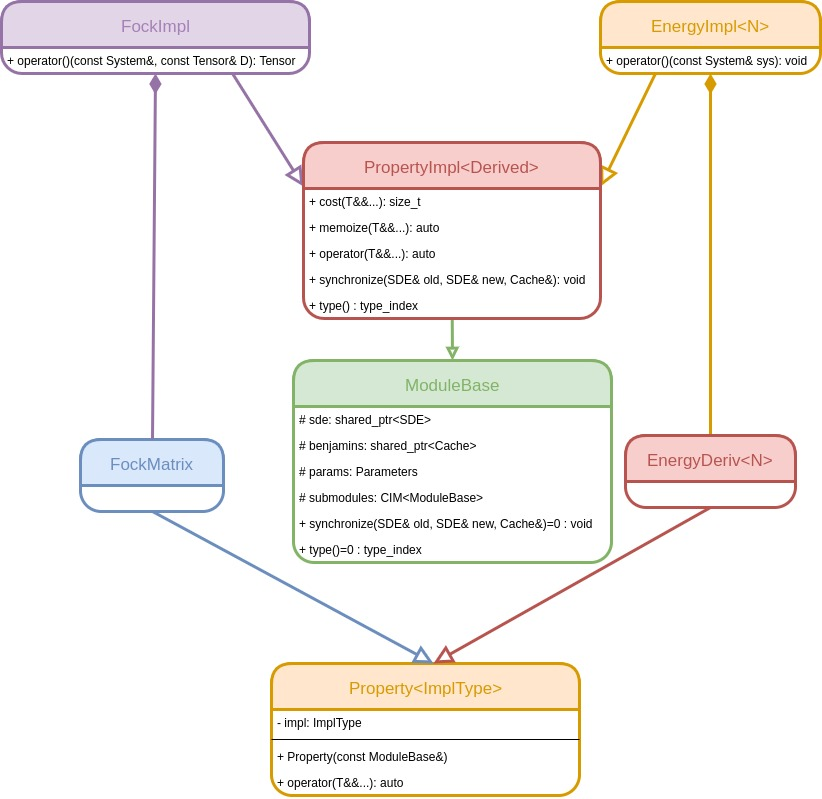
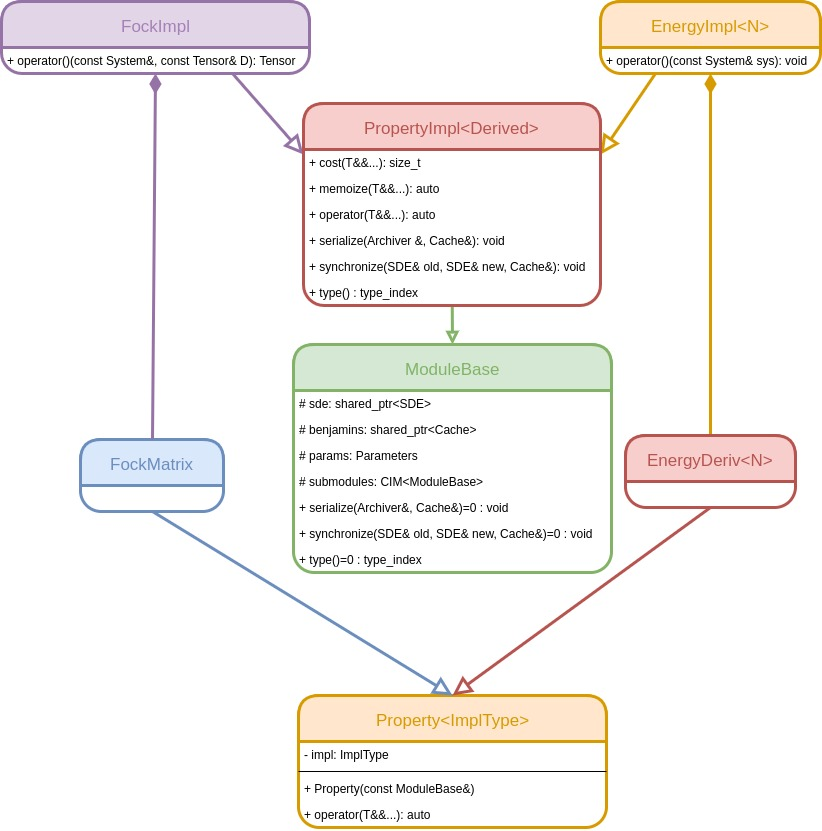
Slight tweak to Module API, adds ModuleManager API

Changed region(s): [[0.0, 0.03, 1.0, 0.7509], [0.3041, 0.7509, 0.7603, 1.0]]

diff --git a/dox/ModuleManagerAPI.md b/dox/ModuleManagerAPI.md
@@ -7,9 +7,10 @@ formulation of the ModuleManager class.
 
 @section mm_api_use_cases Use Cases
 
-The ModuleManager class is conceived as being the automated overlord of the SDE.
-The mechanisms available to it are the same mechanisms available to module 
-developers looking to maximize performance.  To that end, the ModuleManager 
+The ModuleManager class is charged with knowing the available modules, handling 
+queries related to the module call hierarchy, and managing the instances of
+modules.  Managing the state of modules is the purpose of the Cache class and
+its API considerations can be found [here](@ref cache_api).  The ModuleManager 
 class's use cases and users are depicted in the following use case diagram.
 
 ![](uml/ModuleManager_use_case.jpg)
@@ -73,8 +74,17 @@ In most computer programs the ability to save and load program state is a given.
 Historically in computational chemistry this has not been the case.  One of the
 use cases of the SDE is to rectify this.  To that end we note that to the extent
 that the program is simply the module call graph, the ModuleManager is in a 
-position to easily save/load the program's state.  We want this process to be as
-automated as possible.  
+position to easily save/load the program's state.  That said the actual we will
+delegate the save/load responsibility to a sub-object within the ModuleManager,
+namely the Cache.  Nonetheless, it is essential that the ModuleManager be 
+designed with the saving/loading in mind.
+
+Ideally users of the ModuleManager class will not need to interact with the 
+cache directly.  The primary motivation behind this decision is to ensure that 
+module developers need only focus on the internals of their module, and not 
+how the results are used (particularly their lifetimes).  Instead the 
+responsibility for managing the lifetime of the results falls to the caller of
+the module and the Cache (*via* the ModuleManager class).
 
 There is at least one other consideration related to saving/loading state and
 that is managing distributed states.  Generally speaking, given a result 
@@ -93,7 +103,8 @@ tell the SDE about itself.  Generally speaking this can be thought of as a means
 of introspection.  Arguably the most important means of introspection is to 
 ascertain the resource cost of calling a module with a particular set of 
 arguments.  Examples of resources of interest are: time, processes, threads, and
-memory.
+memory.  The location of the actual call for the cost is dependent on the 
+module API chosen. 
 
 Given the overarching goal of parallelization, it will fall to the ModuleManager
 to perform coarse grained parallelism over the modules.  Even when 
@@ -125,7 +136,7 @@ needing to call a submodule does so at well defined points.  To each of
 these points the module developer associates a name.  Then the `submodules` 
 member contains a map of keys for submodules such that 
 `submodules["submodule"].second` is the key to provide to the ModuleManager's
-`get_submodule()` routine in order to get the module at point `"submodule"`.
+`get_module()` routine in order to get the module at point `"submodule"`.
 `submodules["submodule"].first` is the `type_index` of the class that should
 implement the algorithm and is used internally for error-checking.
 
@@ -174,14 +185,14 @@ public:
 };            
 ```  
 
-Aside form the ModuleLoader class the rest of the API is largely 
+We note that the `get_module` function takes an SDE instance.  This is the 
+instance that the module will run on.  By comparing to the stored SDE instance
+we can determine if we need to synchronize the cache.  Aside from the 
+ModuleLoader class and the `get_module` function the rest of the API is largely 
 straightforward.  Modules are registered using the `add_module` member function,
-duplicated using the `copy_module` member function, and retrieved with the
-`get_module` member function.  Calling `save_cache` will cause the Cache to be
-saved, whereas calling `load_cache` will allow one to read in another Cache.
-The remaining class, `Synchronizer`, is used for synchronizing the results
-stored in a Cache when the set of processes changes.  More specifically it can
-be specialized for a given type if need be. 
+duplicated using the `copy_module` member function, and the state can be 
+saved by calling `save_cache`.
+
 
 | Pros                        |                                        Cons|
 | --------------------------- | ------------------------------------------ |

diff --git a/dox/ParametersAPI.md b/dox/ParametersAPI.md
@@ -4,18 +4,10 @@
 
 The current page describes the Parameters class and the classes associated 
 directly with its implementation.  The Parameters class is envisioned as being
-used to provide module specific input assuming a module API like:
-
-```.cpp
-return_value MyModule::operator()(explicit_type1 explicit_arg1, 
-                                  explicit_type2 explicit_arg2,
-                                  ...,
-                                  const Parameters& params);
-```  
-
-For the purposes of this page, the distinction between which arguments are 
-explicit to a module call and which are wrapped up in the Parameters instance is
-beyond the scope of this page. 
+used to provide algorithmic parameters.  Many of the 
+[purposed Module APIs](@ref module_api) also take explicit parameters in 
+addition to the parameters hidden within the Parameters class.  For the purposes
+of this page, we do not concern ourselves with the distinction.
 
 @section parameters_api_uses Use Cases
 
@@ -116,10 +108,11 @@ designed around its intended usage.  The first purposed API embraces that.
 ![](uml/ParametersAPI_pythonic.jpg)
 
 In this API the name of the parameter is stored as a string and the value is 
-type-erased.  Clearly such a strategy is suitable for arbitrary options and is
-extendable without needing to rewrite the SDE.  The actual option is stored in a
-little wrapper class that associates with the value the metadata and validity
-checks.  In practice standard usage of this class would be something like:
+type-erased using the SDEAny class.  Clearly such a strategy is suitable for 
+arbitrary options and is extendable without needing to rewrite the SDE.  The 
+actual option is stored in a little wrapper class that associates with the 
+value the metadata and validity checks.  In practice standard usage of this 
+class would be something like:
 
 ```.cpp
 //Declare an instance

diff --git a/dox/SDEAnyAPI.md b/dox/SDEAnyAPI.md
@@ -1,0 +1,45 @@
+@page sdeany_api SDEAny API
+
+[TOC]
+
+The current page focuses on the design decisions behind the SDEAny class.  
+The design of the SDEAny class is basically ripped right from `std::any` with
+some additional bells and whistles.
+
+@section sdeany_api_use Use Cases
+
+The following UML use case diagram describes the intended use cases for the 
+SDEAny class.
+
+![](uml/SDEAnyAPI_use_case.jpg)
+
+The primary use case for the SDEAny class is to provide type-erasure 
+capabilities to the Cache and Parameters classes.  In both cases our classes
+need to be capable of storing objects of arbitrary type.  The objects wrapped
+in the SDEAny 
+
+@section sdeany_api_api Purposed SDEAny API
+
+Type-erasure is pretty-common design aspect in C++ programs.  The prevailing
+way of doing type-erasure is with a class like `std::any`.  There's two 
+problems with `std::any`.  One, it's C++17.  Two, it doesn't expose any generic
+manipulations (in our case we need to serialize, synchronize, *etc.*).  
+Unfortunately, adding such functionality requires modifications to the base 
+holder class (specifically one must add virtual functions that are overriden by 
+derived holder class).  For these reasons we are rolling our
+own "any" class.  The following UML diagram details the API:
+
+![](uml/SDEAnyAPI_api.jpg)
+
+The API itself is basically just `std::any` with the necessary additional 
+methods.  Typical usage of the class is something like:
+
+```.cpp
+SDEAny wrapped_double(3.14);
+
+// Get our double back
+auto our_double = SDEAny_cast<double>(wrapped_double);
+
+// Request the object be serialized using the archiver MyArchiver 
+wrapped_double.serialize(MyArchiver);
+```

diff --git a/dox/CacheAPI.md b/dox/CacheAPI.md
@@ -1,0 +1,32 @@
+@page cache_api Cache API
+
+[TOC]
+
+The current page focuses on the the design decisions behind the Cache object.
+For the most part the design of the Cache object was driven by the 
+[Module API](@ref module_api) and the [Module Manager API](@ref mm_api).
+
+@section cache_api_use_cases
+
+The following use case diagram shows the intended uses of the Cache as well as
+who those use cases are primarily targeted at.
+
+![](uml/CacheAPI_use_case.jpg)
+
+For the most part the use cases for the Cache are straightforward.  We want to
+be able to checkpoint the program's state and reload it if something goes wrong.
+Additionally, we want a means to archive (long-term storage) the results of a 
+computation, specifically in a manner that does not sacrifice context or 
+precision.  Given the focus on parallel computing, it will be necessary over 
+the course of a calculation to synchronize results stored on a superset or 
+subset of processes.  The Cache must be able to do this in a somewhat automatic
+fashion.  Finally, since the Cache will be the largest consumer of memory it is
+essential that the Cache have some routines for reducing its memory footprint.
+
+@section cache_api_options Purposed Cache API
+
+Ultimately the Cache is just a large hash map holding the state of modules
+that are accessible from the current ModuleManager instance.  Synchronization,
+serialization, etc. is handled by the SDEAny class.  Thus at this point I don't
+see any reason to use anything other than an `std::map` (can't use an 
+`unordered_map` because the hashes can't be derived from the values).

diff --git a/dox/mainpage.md b/dox/mainpage.md
@@ -35,12 +35,27 @@ Understanding the SDE
 Topics in this section are meant for users who want to understand how the SDE
 works in more detail.
 
-- [Parameters API](@ref parameters_api) details regarding choices for the 
-  Parameters API
-- [Module API](@ref module_api) in depth discussion of how the module API came
-  to be
-- [Module Manager API](@ref mm_api) use case and API discussion for the 
-  ModuleManager   
+## Discussions of How APIs Came to Be
+This subsection of topics is mainly for posterity.  Specifically to remember
+what considerations went into each of the major classes involved in the SDE's
+API.
+
+- [SDEAny API](@ref sdeany_api) SDEAny is used for type-erasure throughout the
+  SDE.
+- [Parameters API](@ref parameters_api) Parameters is used for wrapping 
+  algorithmic parameters to a module.
+- [Module API](@ref module_api) Modules are how the SDE's capabilities are 
+  extended.
+- [Module Manager API](@ref mm_api) The ModuleManager is responsible for 
+  managing the available modules.
+- [Cache API](@ref cache_api) The Cache is responsible for managing the module's
+  state. 
+
+## Discussions of Essential SDE Operations
+This subsection includes topics focused on documenting how some of the key SDE
+features work.
+    
+
 - [Memoization Considerations](dox/memoization.md) discusses the fine details
   of memoization  
 - [Running an App](dox/RunningAnApp.md) details what happens when a user 

diff --git a/dox/ModuleAPI.md b/dox/ModuleAPI.md
@@ -9,10 +9,12 @@ the API of the Module class and the associated helper classes.
 
 Modules are envisioned as being the building blocks of a program that utilizes
 the SDE framework. This page is primarily focused on how to pass input to a 
-module and on how to get the result back.  Considerations related to module
-introspection are covered on the page [Module Manager API](@ref mm_api).  For 
-our current purposes the following use case diagram details the primary users of
-modules as well as the primary use cases.
+module and on how to get the result back.  API Considerations related to module
+creation and introspection are covered on the page 
+[Module Manager API](@ref mm_api).  API Considerations related to 
+memoization, checkpointing/restart are covered on the page 
+[Cache API](@ref cache_api).  For our current purposes the following use case 
+diagram details the primary users of modules as well as the primary use cases.
 
 ![](uml/ModuleAPI_use_case.jpg)
 
